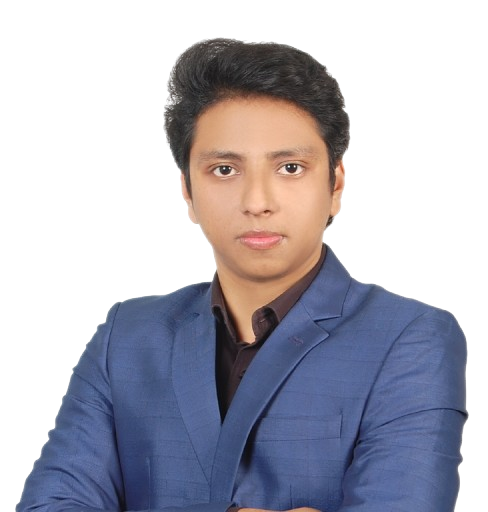
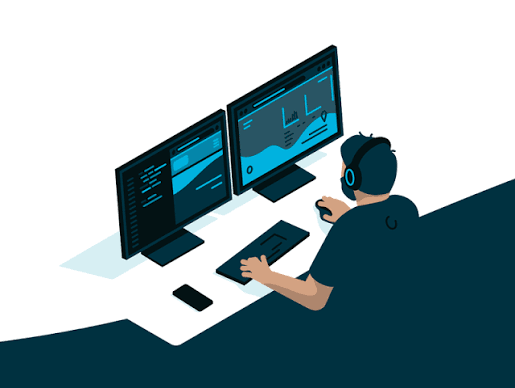
💄ui: hero

diff --git a/src/components/Hero.tsx b/src/components/Hero.tsx
@@ -95,7 +95,8 @@ export default function Hero() {
           </div>
 
           <h1 className="text-4xl sm:text-5xl lg:text-6xl font-extrabold tracking-tight text-zinc-100">
-            Hi, I&apos;m <span className="bg-gradient-to-r from-emerald-400 via-teal-400 to-indigo-400 bg-clip-text text-transparent">{portfolioData.personalInfo.name}</span>
+            Hi, I&apos;m <br />
+            <span className="bg-gradient-to-r from-emerald-400 via-teal-400 to-indigo-400 bg-clip-text text-transparent">{portfolioData.personalInfo.name}</span>
           </h1>
 
           <TypingTitle titles={portfolioData.personalInfo.title} />

diff --git a/src/components/About.tsx b/src/components/About.tsx
@@ -9,8 +9,8 @@ const date = new Date();
 export default function About() {
   const stats = [
     { label: "Years Experience", value: date.getFullYear() - 2023 + "+" },
-    { label: "Production Apps", value: "10+" },
-    { label: "Core Tech Stacks", value: "3" },
+    { label: "Production Projects", value: "10+" },
+    { label: "Core Tech Stacks", value: "5+" },
     { label: "Security Isolation", value: "100%" },
   ];
 
